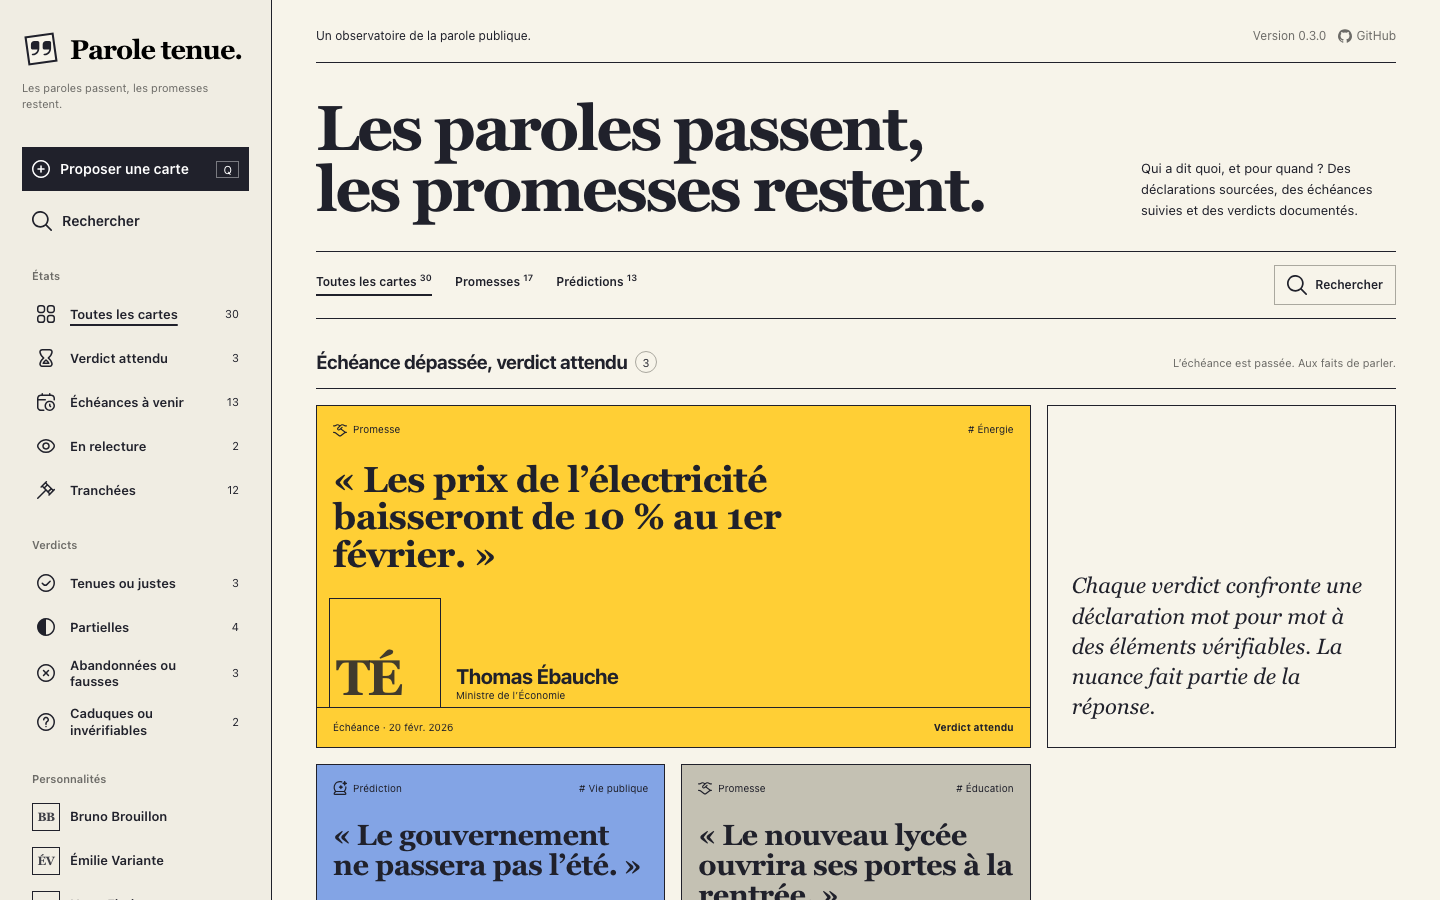
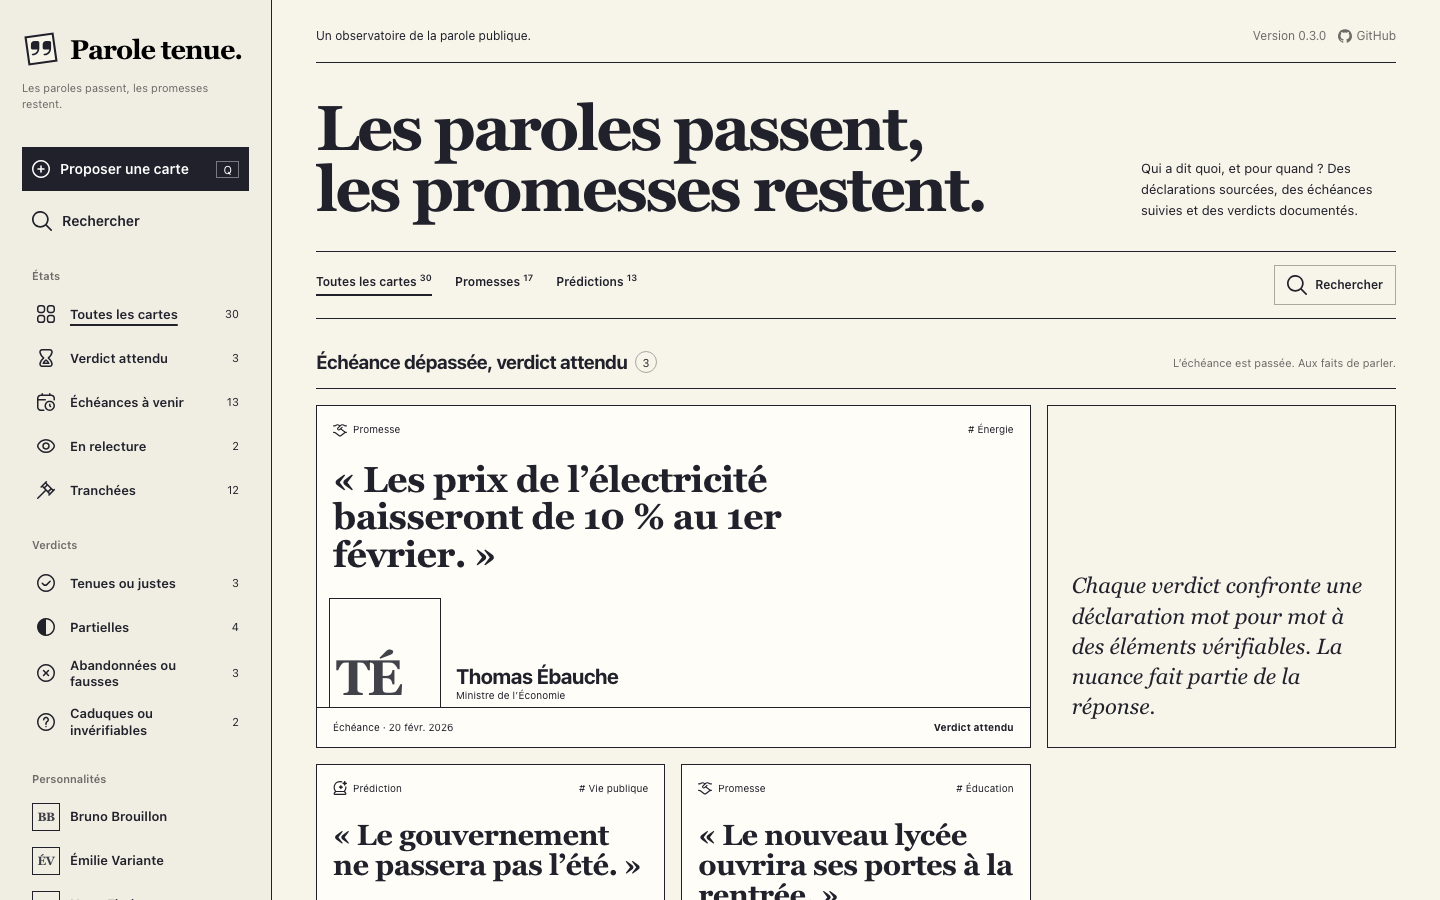
La couleur d'une carte signifie toujours un verdict
Les cartes ouvertes ou en relecture gardent le fond papier ; seules les
cartes tranchées prennent la couleur de leur verdict.

Changed region(s): [[0.2188, 0.4356, 0.7188, 1.0]]

diff --git a/app/View/Appearance.php b/app/View/Appearance.php
@@ -27,23 +27,18 @@ class Appearance
         'caduques-ou-inverifiables' => ['tone' => 'neutral', 'label' => 'Caduques ou invérifiables', 'mark' => '?', 'icon' => 'verdict-neutral'],
     ];
 
-    /** Aplats des cartes encore ouvertes, en alternance comme dans la maquette. */
-    private const OPEN_SURFACES = ['bg-card-bright', 'bg-card-blue', 'bg-card-grey'];
-
     /**
-     * Fond d'une carte de la grille : couleur du verdict une fois tranchée, bleu soutenu
-     * en relecture, aplats en alternance tant qu'elle est ouverte.
+     * Fond d'une carte de la grille : la couleur signifie toujours un verdict. Une carte tranchée prend
+     * la couleur du sien ; une carte encore ouverte (ou en relecture) garde le fond papier.
      */
-    public static function surfaceClasses(Card $card, int $position = 0): string
+    public static function surfaceClasses(Card $card): string
     {
         return match (self::tone($card)) {
             'positive' => 'bg-card-blue',
             'partial' => 'bg-card-yellow',
             'negative' => 'bg-card-red',
             'neutral' => 'bg-card-grey',
-            default => $card->status === CardStatus::VerdictProposed
-                ? 'bg-card-review'
-                : self::OPEN_SURFACES[$position % count(self::OPEN_SURFACES)],
+            default => 'bg-field',
         };
     }
 

diff --git a/resources/views/components/card-tile.blade.php b/resources/views/components/card-tile.blade.php
@@ -9,7 +9,7 @@
        'group flex flex-col overflow-hidden border border-ink text-ink no-underline transition-shadow duration-100 hover:text-ink hover:shadow-[8px_0_0_#000] motion-reduce:transition-none',
        'min-h-[330px] 2xl:min-h-[365px]' => ! $wide,
        'min-h-[258px] md:col-span-2' => $wide,
-       Appearance::surfaceClasses($card, $position),
+       Appearance::surfaceClasses($card),
    ])>
     <span class="flex items-start justify-between gap-3 p-4 text-[10px] leading-normal">
         <span class="flex flex-none items-center gap-1.5"><x-uicon :name="Appearance::typeIcon($card->type)" :size="14" /> {{ $card->type->label() }}</span>

diff --git a/CLAUDE.md b/CLAUDE.md
@@ -69,7 +69,7 @@ Champs renommés par rapport à la spécification : `reformulation` → `testabl
 
 ## Style visuel
 
-Charte éditoriale (21 octobre 2026), référence `docs/maquettes/editoriale/index.html` : papier crème `#F7F4EA`, encre `#20212B`, traits d'encre de 1 px et angles droits, DM Sans pour le texte et Newsreader (serif grasse) pour les titres et les citations. Cartes en aplats colorés : une carte tranchée prend la couleur de son verdict (bleu tenue/juste, jaune partielle, rouge abandonnée/fausse, gris caduque/invérifiable), une carte en relecture le bleu soutenu, les cartes ouvertes alternent jaune, bleu clair et gris. Portrait d'une personnalité en photocopie (photo libre de droits en noir et blanc contrasté), monogramme en serif à défaut. Barre latérale : États, Verdicts (par tonalité), Personnalités, Thèmes ; ajout rapide au clavier avec la touche Q. Les maquettes d'origine (`docs/maquettes/*.html`, style Todoist) restent la référence de structure des autres écrans. Le panneau de modération Filament garde son thème, rendu compact (`resources/css/filament/moderation/theme.css` : taille de base 14 px et pas d'espacement réduit).
+Charte éditoriale (21 octobre 2026), référence `docs/maquettes/editoriale/index.html` : papier crème `#F7F4EA`, encre `#20212B`, traits d'encre de 1 px et angles droits, DM Sans pour le texte et Newsreader (serif grasse) pour les titres et les citations. La couleur d'une carte signifie toujours un verdict (décision du 21 octobre 2026) : une carte tranchée prend la couleur du sien (bleu tenue/juste, jaune partielle, rouge abandonnée/fausse, gris caduque/invérifiable) ; une carte ouverte ou en relecture garde le fond papier. Portrait d'une personnalité en photocopie (photo libre de droits en noir et blanc contrasté), monogramme en serif à défaut. Barre latérale : États, Verdicts (par tonalité), Personnalités, Thèmes ; ajout rapide au clavier avec la touche Q. Les maquettes d'origine (`docs/maquettes/*.html`, style Todoist) restent la référence de structure des autres écrans. Le panneau de modération Filament garde son thème, rendu compact (`resources/css/filament/moderation/theme.css` : taille de base 14 px et pas d'espacement réduit).
 
 ## Ordre de construction
 

diff --git a/README.md b/README.md
@@ -66,7 +66,8 @@ carte : qui a fait quoi, quand, et ce qui a changé.
 | Abandonnées ou fausses | abandonnée | fausse | rouge |
 | Caduques ou invérifiables | caduque | invérifiable | gris |
 
-Une carte en relecture est **bleu soutenu** ; une carte encore ouverte alterne jaune, bleu clair et gris.
+La couleur signifie toujours un verdict : une carte encore ouverte, ou dont le verdict est en relecture, garde le fond
+papier.
 Le critère de verdict est écrit sur la carte avant l’échéance : on sait d’avance avec quelle donnée elle sera tranchée.
 
 ## Utiliser le site
